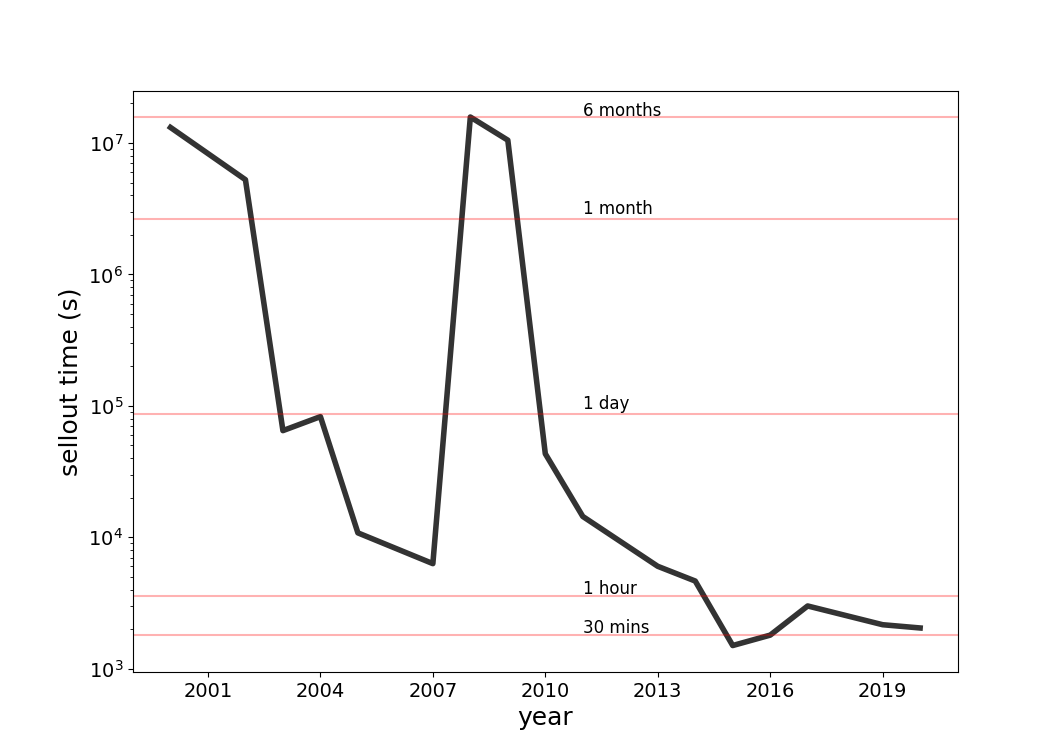
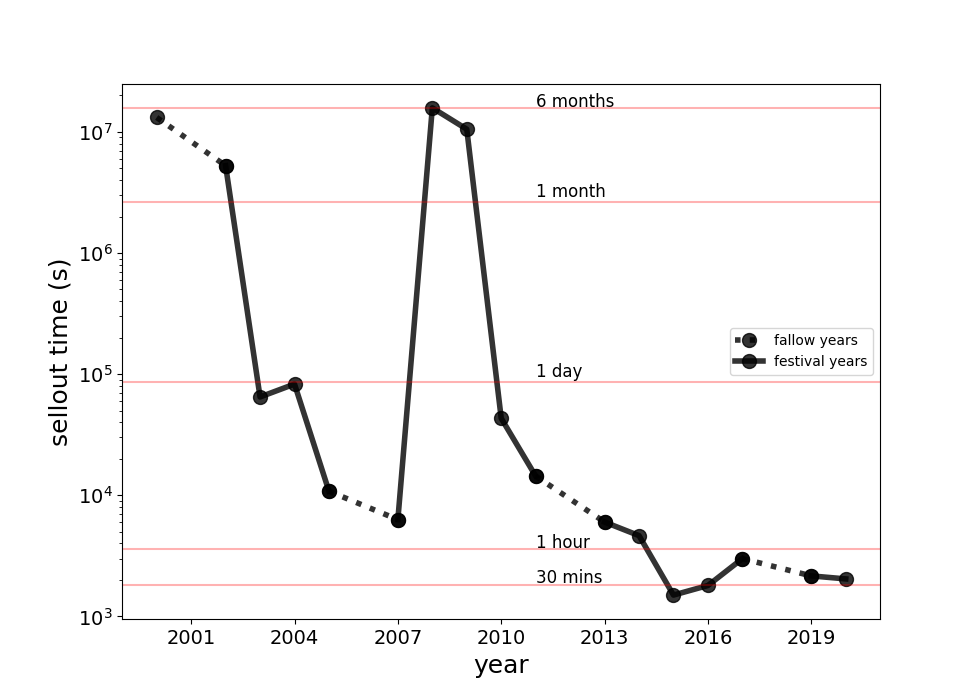
Updated sellout time image

diff --git a/content/blog/glastonbury1/history.py b/content/blog/glastonbury1/history.py
@@ -116,6 +116,13 @@ DATA = [
     },
 ]
 
+active_years = [entry['year'] for entry in DATA]
+actual_years = range(active_years[0], active_years[-1], 1)
+missing_years = sorted(list(set(actual_years) - set(active_years)))
+missing_year_indices = [actual_years.index(y) for y in missing_years]
+print(missing_years)
+print(missing_year_indices)
+
 import matplotlib.pyplot as plt
 from matplotlib.ticker import MaxNLocator
 
@@ -127,18 +134,37 @@ for d in DATA:
     prices.append(d['price'])
     sellouttimes.append(d['sellouttime'])
 
-# sellout times
+# sellout times - show missing years with dash line
 f = plt.figure()
-plt.plot(times, sellouttimes, 'k', label='sellout time', alpha=0.8, linewidth=4.)
-plt.axhline(y=0.5*HOUR, color='r', label="30 mins", alpha=0.3)
+
+# break up into festival and fallow years
+# not a good way to do this - can we have an algorithm to do this?
+plt.plot(times[:2], sellouttimes[:2], 'k', linestyle=":",
+    marker='o', markersize=10, alpha=0.8, label="fallow years", linewidth=4.)
+plt.plot(times[1:5], sellouttimes[1:5], 'k', linestyle="-",
+    marker='o', markersize=10, label='festival years', alpha=0.8, linewidth=4.)
+plt.plot(times[4:6], sellouttimes[4:6], 'k', linestyle=":",
+    marker='o', markersize=10, alpha=0.8, linewidth=4.)
+plt.plot(times[5:10], sellouttimes[5:10], 'k', linestyle="-",
+    marker='o', markersize=10, alpha=0.8, linewidth=4.)
+plt.plot(times[9:11], sellouttimes[9:11], 'k', linestyle=":",
+    marker='o', markersize=10, alpha=0.8, linewidth=4.)
+plt.plot(times[10:15], sellouttimes[10:15], 'k', linestyle="-",
+    marker='o', markersize=10, alpha=0.8, linewidth=4.)
+plt.plot(times[14:16], sellouttimes[14:16], 'k', linestyle=":",
+    marker='o', markersize=10, alpha=0.8, linewidth=4.)
+plt.plot(times[15:17], sellouttimes[15:17], 'k', linestyle="-",
+    marker='o', markersize=10, alpha=0.8, linewidth=4.)
+
+plt.axhline(y=0.5*HOUR, color='r', alpha=0.3)
 plt.text(2011, 0.52*HOUR, "30 mins", fontsize=12)
-plt.axhline(y=HOUR, color='r', label="1 hour", alpha=0.3)
+plt.axhline(y=HOUR, color='r', alpha=0.3)
 plt.text(2011, 1.02*HOUR, "1 hour", fontsize=12)
-plt.axhline(y=DAY, color='r', label="1 day", alpha=0.3)
+plt.axhline(y=DAY, color='r', alpha=0.3)
 plt.text(2011, 1.1*DAY, "1 day", fontsize=12)
-plt.axhline(y=MONTH, color='r', label="1 month", alpha=0.3)
+plt.axhline(y=MONTH, color='r', alpha=0.3)
 plt.text(2011, 1.1*MONTH, "1 month", fontsize=12)
-plt.axhline(y=6*MONTH, color='r', label="6 months", alpha=0.3)
+plt.axhline(y=6*MONTH, color='r', alpha=0.3)
 plt.text(2011, 6.1*MONTH, "6 months", fontsize=12)
 ax = plt.gca()
 ax.xaxis.set_major_locator(MaxNLocator(integer=True))
@@ -147,7 +173,7 @@ ax.tick_params(axis='both', which='major', labelsize=14)
 plt.xlabel('year', fontsize=18)
 plt.ylabel('sellout time (s)', fontsize=18)
 plt.yscale('log')
-# plt.legend()
+plt.legend()
 
 # price
 f = plt.figure()
